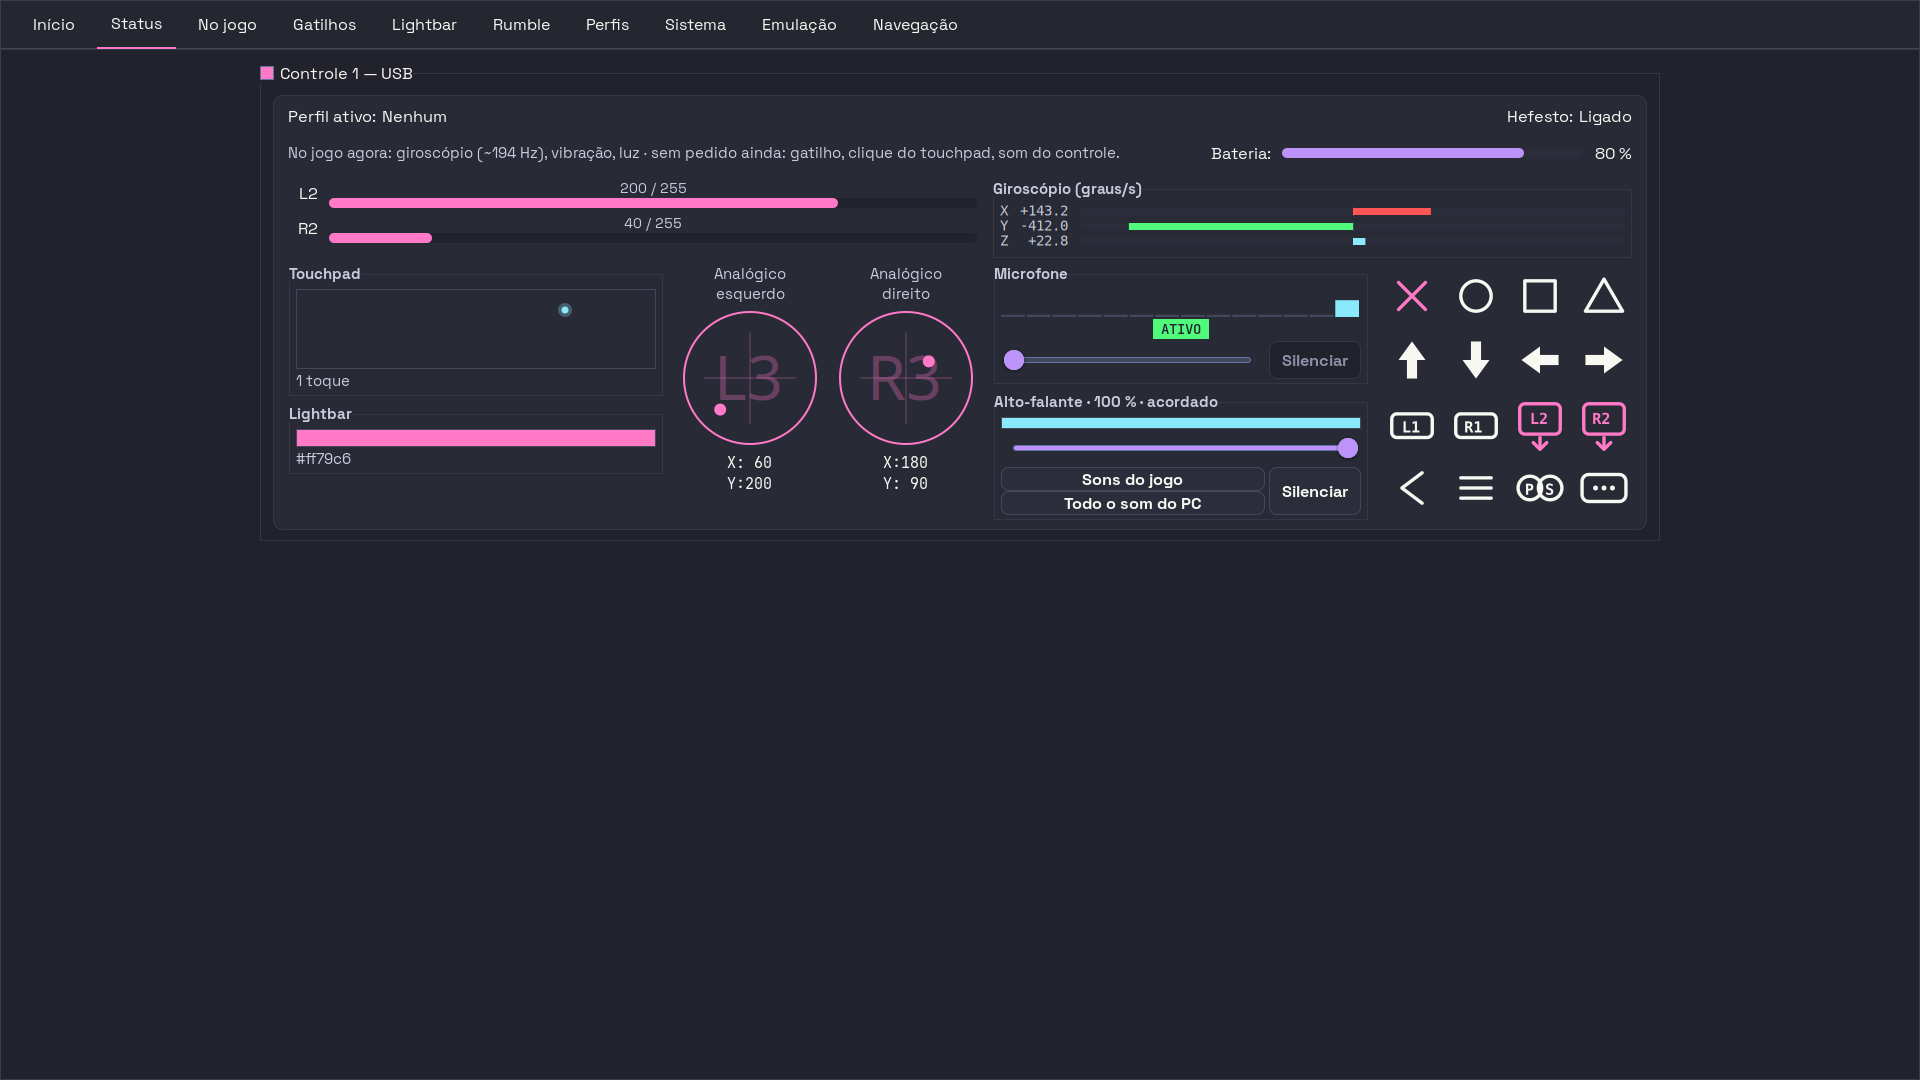
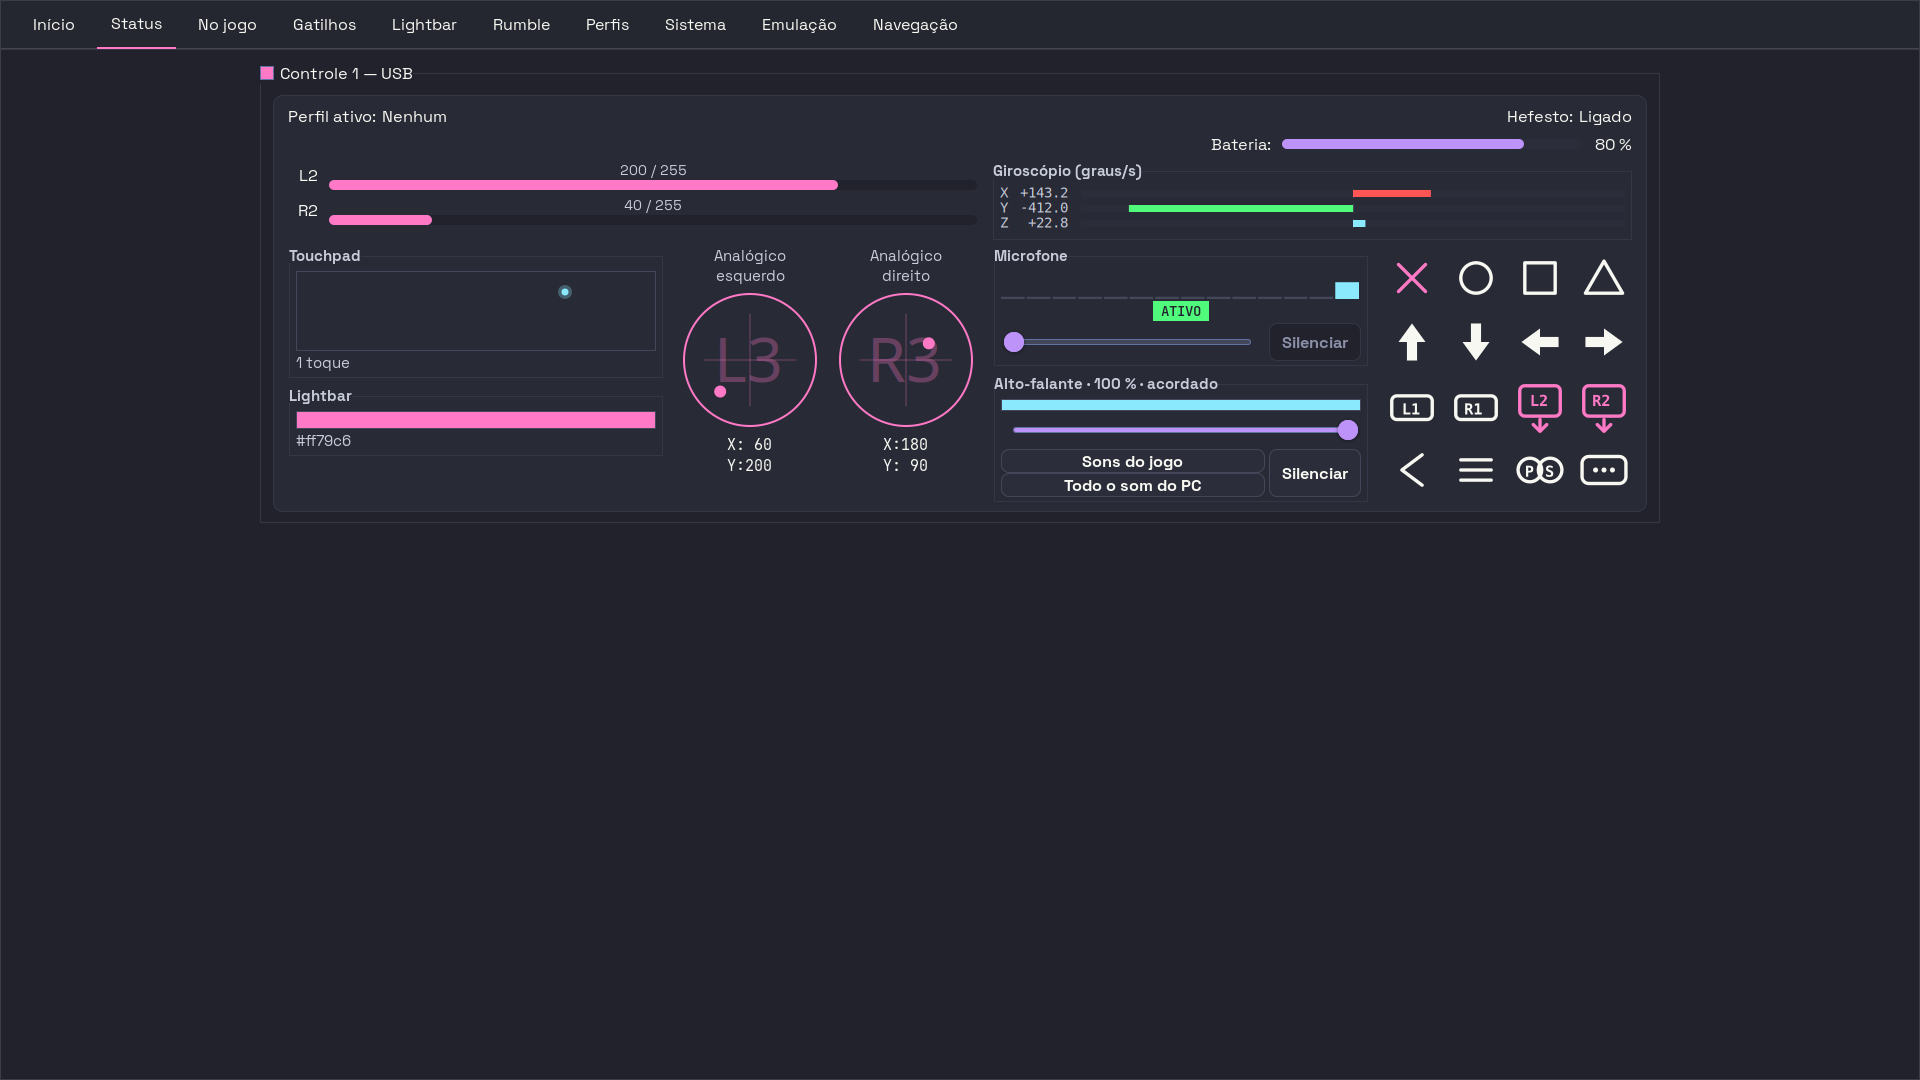
feat(status): a barra de status em tempo real sai do card
Pedido dela olhando a aba: 'remover guia dos status em tempo real'.

A linha era 'No jogo agora: giroscópio (~199 Hz) · pararam: vibração, gatilho,
luz, som do controle · sem pedido ainda: clique do touchpad' — uma faixa inteira
do card que mudava de texto a cada tique. E ela repetia em prosa o que os
medidores do card já dizem em desenho: cada um desses canais tem bloco próprio
logo abaixo.

O rótulo NÃO foi arrancado: ele continua existindo e continua sendo alimentado
por _update_verdade, só não é empacotado. Assim nenhum 'if' novo entra no
caminho quente, o RotuloDeAlturaReservada e o _VERDADE_MAX_CHARS seguem cobertos
pelos testes que os travam, e devolver a linha custa reinserir um pack_start.
Arrancar tudo custaria mais e apagaria o caminho de volta.

Changed region(s): [[0.1562, 0.1222, 0.8438, 0.4889], [0.5938, 0.1222, 0.8438, 0.2139], [0.2812, 0.2444, 0.3125, 0.275]]

diff --git a/scripts/ensaios/o_vpad_quando_o_jogo_abre.py b/scripts/ensaios/o_vpad_quando_o_jogo_abre.py
@@ -1,0 +1,370 @@
+#!/usr/bin/env python3
+"""o_vpad_quando_o_jogo_abre.py — o vpad MORRE, ou CONGELA? Segundo a segundo.
+
+A PERGUNTA QUE ELE RESPONDE
+----------------------------
+*Quando o jogo abre, o que acontece com o controle virtual?* — e a resposta tem
+de separar **duas coisas que os relatos de 16/08 misturaram**, porque elas têm
+curas diferentes:
+
+- **MORRE**  — o nó do vpad some (`gamepad_emulation_stopped`, `/dev/hidrawN`
+  desaparece). O jogo, que já enumerou aquele nó, fica com um descritor órfão.
+- **CONGELA** — o nó continua vivo e emitindo na cadência normal, e o CONTEÚDO
+  para: os eixos ficam no valor de repouso. Foi o que o par de 17/08 00h20
+  mediu (1573 reports, `LX` travado em 129) e o que o item 1 do
+  O-QUE-FICOU-ABERTO-01 já tinha registrado no rádio (396 reports, `LX` em 128).
+
+Contagem de reports **não** distingue as duas: um vpad que morreu e renasceu
+emite tanto quanto um que nunca parou. Só a linha do tempo distingue — e é ela
+que este instrumento imprime.
+
+O QUE ELE MEDE
+---------------
+Uma linha por segundo, com quatro colunas que só fazem sentido juntas:
+
+    t    vpad          reports  pares  perfil        o que o daemon fez
+    12s  /dev/hidraw4      63     41   Dont Scream   -
+    13s  /dev/hidraw4      61     38   Dont Scream   -
+    14s  (nenhum)           0      0   Navegação     emulação PAROU
+    15s  /dev/hidraw4      58      1   Dont Scream   vpad NASCEU
+
+`pares` é a contagem de pares `(LX, LY)` **distintos** naquele segundo. É a
+régua do movimento, e não a do tráfego: um vpad congelado dá `reports` alto e
+`pares` = 1. Um vpad morto dá zero nos dois.
+
+O QUE ELE NÃO MEDE
+-------------------
+**Não mede se o JOGO usa o que chega** — este é o andar do transporte, e o
+prontuário por jogo é quem recusa dizer "funciona". Não mede latência.
+
+A ARMADILHA QUE ELE EVITA
+--------------------------
+**Guardar o caminho do nó.** O vpad renasce com outro número, e um instrumento
+que fixa `/dev/hidraw4` na primeira resolução mede "morreu" para sempre depois
+do primeiro ciclo — exatamente o erro que o `descobrir_aparelhos()` do
+`comum.py` existe para impedir. Aqui o nó é **redescoberto a cada segundo**, e
+a coluna `vpad` imprime o nó de verdade daquele segundo.
+
+E a de 16/08, que custou um diagnóstico errado: **um ensaio mede UM gesto**.
+O gesto aqui é *um só* — mexer o analógico esquerdo, sem parar, do começo ao
+fim. Quem parar de mexer para abrir o jogo produz `pares=1` por conta própria e
+lê congelamento onde só houve mão parada. Por isso o instrumento **pede o gesto
+antes de começar** e imprime, no resumo, quantos segundos tiveram movimento.
+
+USO
+    .venv/bin/python scripts/ensaios/o_vpad_quando_o_jogo_abre.py
+    .venv/bin/python scripts/ensaios/o_vpad_quando_o_jogo_abre.py --segundos 120
+"""
+
+from __future__ import annotations
+
+import argparse
+import os
+import re
+import select
+import subprocess
+import sys
+import threading
+import time
+from collections import defaultdict
+
+sys.path.insert(0, os.path.dirname(os.path.abspath(__file__)))
+
+from comum import (  # noqa: E402
+    abrir_no_hidraw,
+    cabecalho_do_instrumento,
+    descobrir_aparelhos,
+    diagnostico_de_acesso,
+    resumo,
+    tabela,
+    vpads,
+)
+
+#: Buffer folgado: um `read()` de hidraw devolve UM relatório, e o maior desta
+#: família é o `0x31` do Bluetooth, com 78 bytes.
+BUF = 128
+
+#: Onde o primeiro eixo (`LX`) começa, por report ID. O vpad forja `BUS_USB` no
+#: `UHID_CREATE2` (vira `0x01`), mas a máscara pode mudar — então os dois.
+_BASE = {0x01: 1, 0x31: 2}
+
+#: Os eventos do journal que mudam o veredito, e o rótulo curto de cada um.
+#: Tudo o que não estiver aqui é ruído para ESTA pergunta e não entra na linha.
+_EVENTOS = (
+    ("uhid_device_created", "vpad NASCEU"),
+    ("gamepad_emulation_stopped", "emulação PAROU"),
+    ("gamepad_emulation_started", "emulação SUBIU"),
+    ("gamepad_controller_grab", "grab"),
+    ("backend_hotplug_reconcile", "reconcile"),
+    ("motion_reader_started", "leitor de movimento SUBIU"),
+    ("motion_reader_stopped", "leitor de movimento PAROU"),
+    ("motion_reader_open_failed", "leitor de movimento FALHOU"),
+    ("controller_disconnected", "controle DESCONECTOU"),
+    ("state_stale_neutral_warning", "estado ESTAGNADO"),
+)
+
+_RE_PERFIL = re.compile(r"profile_activated\s+name=('([^']*)'|(\S+))")
+
+
+def _perfil_agora() -> str:
+    """O perfil ativo AGORA, para a primeira linha não sair em branco.
+
+    Uma chamada ao IPC, no começo e só no começo: dali em diante quem manda é o
+    `profile_activated` do log, que é a fonte de verdade sobre a TROCA. Ler o
+    IPC a cada segundo seria o instrumento perguntando ao produto o que ele já
+    está gritando no log — e mais uma coisa disputando o socket durante a
+    medição.
+    """
+    try:
+        saida = subprocess.run(
+            [sys.executable, "-m", "hefesto_dualsense4unix", "status"],
+            capture_output=True, text=True, timeout=8,
+        ).stdout
+    except (OSError, subprocess.SubprocessError):
+        return "(não sei)"
+    for linha in saida.splitlines():
+        if "active_profile" in linha:
+            partes = [p.strip() for p in linha.strip("│ ").split("│")]
+            if len(partes) >= 2:
+                return partes[1]
+    return "(não sei)"
+
+
+class Janela:
+    """O que aconteceu em cada segundo. Um lock, porque três threads escrevem."""
+
+    def __init__(self) -> None:
+        self.lock = threading.Lock()
+        self.reports: dict[int, int] = defaultdict(int)
+        self.pares: dict[int, set[tuple[int, int]]] = defaultdict(set)
+        self.no: dict[int, str] = {}
+        self.eventos: dict[int, list[str]] = defaultdict(list)
+        self.perfil = _perfil_agora()
+        self.perfil_por_seg: dict[int, str] = {}
+
+    def report(self, seg: int, no: str, lx: int, ly: int) -> None:
+        with self.lock:
+            self.reports[seg] += 1
+            self.pares[seg].add((lx, ly))
+            self.no[seg] = no
+
+    def evento(self, seg: int, rotulo: str) -> None:
+        with self.lock:
+            if rotulo not in self.eventos[seg]:
+                self.eventos[seg].append(rotulo)
+
+    def trocou_perfil(self, nome: str) -> None:
+        with self.lock:
+            self.perfil = nome
+
+    def fecha(self, seg: int) -> tuple[str, int, int, str, str]:
+        with self.lock:
+            self.perfil_por_seg[seg] = self.perfil
+            return (
+                self.no.get(seg, "(nenhum)"),
+                self.reports.get(seg, 0),
+                len(self.pares.get(seg, ())),
+                self.perfil,
+                ", ".join(self.eventos.get(seg, ())) or "-",
+            )
+
+
+def _le_o_vpad(janela: Janela, t0: float, ate: float, parar: threading.Event) -> None:
+    """Lê o vpad e redescobre o nó a cada segundo. Nunca guarda o caminho."""
+    aberto: tuple[str, object] | None = None
+    proxima_busca = 0.0
+    while not parar.is_set() and time.monotonic() < ate:
+        agora = time.monotonic()
+        if aberto is None and agora >= proxima_busca:
+            proxima_busca = agora + 1.0
+            achados = vpads(descobrir_aparelhos())
+            if achados:
+                caminho = achados[0].caminho_hidraw
+                try:
+                    aberto = (caminho, abrir_no_hidraw(caminho, escrita=False))
+                except OSError:
+                    aberto = None
+        if aberto is None:
+            time.sleep(0.05)
+            continue
+        caminho, no = aberto
+        try:
+            pronto, _, _ = select.select([no.fd], [], [], 0.2)
+            if not pronto:
+                # Nó sumiu debaixo de nós? `stat` é barato e é a única checagem
+                # que separa "nada a ler" de "o vpad morreu".
+                if not os.path.exists(caminho):
+                    raise OSError(2, "o nó sumiu")
+                continue
+            dados = os.read(no.fd, BUF)
+        except OSError:
+            try:
+                no.close()
+            except Exception:  # noqa: BLE001 — fechar não pode derrubar a medição
+                pass
+            aberto = None
+            continue
+        base = _BASE.get(dados[0] if dados else -1)
+        if base is None or len(dados) < base + 2:
+            continue
+        janela.report(int(time.monotonic() - t0), caminho, dados[base], dados[base + 1])
+
+
+def _segue_o_journal(janela: Janela, t0: float, parar: threading.Event) -> None:
+    """Segue o log do daemon ao vivo. Só LÊ — não pede nada ao daemon."""
+    proc = subprocess.Popen(
+        [
+            "journalctl", "--user", "-u", "hefesto-dualsense4unix",
+            "-f", "-n", "0", "-o", "cat",
+        ],
+        stdout=subprocess.PIPE,
+        stderr=subprocess.DEVNULL,
+        text=True,
+    )
+    try:
+        assert proc.stdout is not None
+        for linha in proc.stdout:
+            if parar.is_set():
+                break
+            seg = int(time.monotonic() - t0)
+            casou = _RE_PERFIL.search(linha)
+            if casou:
+                janela.trocou_perfil(casou.group(2) or casou.group(3))
+                janela.evento(seg, f"perfil → {casou.group(2) or casou.group(3)}")
+            for chave, rotulo in _EVENTOS:
+                if chave in linha:
+                    if chave == "gamepad_controller_grab":
+                        rotulo = "grab " + ("PEGOU" if "grab=True" in linha else "SOLTOU")
+                    janela.evento(seg, rotulo)
+    finally:
+        proc.terminate()
+
+
+def main() -> int:
+    ap = argparse.ArgumentParser(description=__doc__)
+    ap.add_argument("--segundos", type=int, default=90, help="duração (padrão: 90)")
+    args = ap.parse_args()
+
+    print(
+        cabecalho_do_instrumento(
+            "o_vpad_quando_o_jogo_abre.py",
+            "quando o jogo abre, o vpad MORRE ou CONGELA?",
+            bibliotecas=[],
+            escreve_no_aparelho=False,
+            daemon_precisa_parar=False,
+        )
+    )
+
+    achados = vpads(descobrir_aparelhos())
+    if achados:
+        print(f"\n  vpad agora: {achados[0].caminho_hidraw}")
+        print(f"  acesso ...: {diagnostico_de_acesso(achados[0].caminho_hidraw)}")
+    else:
+        print("\n  vpad agora: NENHUM — a emulação está desligada neste instante.")
+        print("  (não é impedimento: o instrumento espera ele nascer e registra a hora)")
+
+    print(
+        "\n  O GESTO, e é UM SÓ: mexa o analógico ESQUERDO em círculos, sem parar,\n"
+        "  do primeiro segundo ao último. Não pare para abrir o jogo — abra com a\n"
+        "  outra mão. Mão parada produz `pares=1` sozinha, e isso se lê como\n"
+        "  congelamento que não houve.\n"
+    )
+    print(f"  Medindo por {args.segundos}s. Comece a mexer AGORA.\n")
+
+    janela = Janela()
+    t0 = time.monotonic()
+    parar = threading.Event()
+    ate = t0 + args.segundos
+    threads = [
+        threading.Thread(target=_le_o_vpad, args=(janela, t0, ate, parar), daemon=True),
+        threading.Thread(target=_segue_o_journal, args=(janela, t0, parar), daemon=True),
+    ]
+    for t in threads:
+        t.start()
+
+    linhas: list[list[str]] = []
+    print(f"  {'t':>4}  {'vpad':<14} {'reports':>7} {'pares':>6}  {'perfil':<14} o que o daemon fez")
+    print("  " + "-" * 92)
+    try:
+        for seg in range(args.segundos):
+            time.sleep(max(0.0, (t0 + seg + 1) - time.monotonic()))
+            no, reports, pares, perfil, eventos = janela.fecha(seg)
+            curto = no.replace("/dev/", "")
+            print(f"  {seg:>3}s  {curto:<14} {reports:>7} {pares:>6}  {perfil:<14} {eventos}")
+            linhas.append([f"{seg}s", curto, str(reports), str(pares), perfil, eventos])
+    except KeyboardInterrupt:
+        print("\n  (interrompido)")
+    parar.set()
+
+    # ---- o veredito, e ele recusa sair de contagem sozinha -------------------
+    com_movimento = sum(1 for ln in linhas if int(ln[3]) > 2)
+    com_report = sum(1 for ln in linhas if int(ln[2]) > 0)
+    sem_vpad = sum(1 for ln in linhas if ln[1] == "(nenhum)")
+    congelados = sum(1 for ln in linhas if int(ln[2]) > 10 and int(ln[3]) <= 1)
+    mortes = sum(1 for ln in linhas if "emulação PAROU" in ln[5])
+    nascimentos = sum(1 for ln in linhas if "vpad NASCEU" in ln[5])
+    reconciles = sum(1 for ln in linhas if "reconcile" in ln[5])
+
+    print(
+        "\n"
+        + tabela(
+            ["o que se contou", "segundos"],
+            [
+                ["com movimento real (pares > 2)", str(com_movimento)],
+                ["com report chegando", str(com_report)],
+                ["SEM vpad nenhum", str(sem_vpad)],
+                ["CONGELADO (reports > 10 e pares ≤ 1)", str(congelados)],
+                ["--- eventos ---", ""],
+                ["a emulação PAROU", str(mortes)],
+                ["o vpad NASCEU", str(nascimentos)],
+                ["backend_hotplug_reconcile", str(reconciles)],
+            ],
+        )
+    )
+
+    if com_movimento == 0:
+        print(
+            resumo(
+                "NÃO CONCLUSIVO: nenhum segundo teve movimento real. Ou a mão "
+                "ficou parada, ou nunca houve entrada — e este instrumento não "
+                "separa as duas. Refaça com o gesto contínuo do começo ao fim."
+            )
+        )
+        return 2
+    if sem_vpad and congelados:
+        print(
+            resumo(
+                f"OS DOIS: o vpad MORREU em {sem_vpad}s e CONGELOU em "
+                f"{congelados}s. A linha do tempo acima diz qual veio primeiro — "
+                "e é ela que decide a ordem da cura."
+            )
+        )
+    elif sem_vpad:
+        print(
+            resumo(
+                f"MORRE: {sem_vpad}s sem vpad nenhum, com {mortes} parada(s) da "
+                f"emulação e {nascimentos} nascimento(s). O jogo que enumerou o "
+                "nó anterior ficou com um descritor órfão. A cura é impedir a "
+                "destruição, não reabrir o leitor."
+            )
+        )
+    elif congelados:
+        print(
+            resumo(
+                f"CONGELA: {congelados}s com report chegando e eixo parado, sem "
+                "o vpad morrer. É o item 1 do O-QUE-FICOU-ABERTO-01, agora com "
+                "gatilho na linha do tempo acima."
+            )
+        )
+    else:
+        print(
+            resumo(
+                f"NEM UM NEM OUTRO: {com_movimento}s de movimento real e nenhum "
+                "segundo congelado ou sem vpad. Neste ensaio o vpad se comportou."
+            )
+        )
+    return 0
+
+
+if __name__ == "__main__":
+    raise SystemExit(main())

diff --git a/src/hefesto_dualsense4unix/app/widgets/controller_card.py b/src/hefesto_dualsense4unix/app/widgets/controller_card.py
@@ -2454,7 +2454,23 @@ if _GTK_DISPONIVEL:
                 )
                 slot_motion = Gtk.Box(orientation=Gtk.Orientation.VERTICAL)
                 slot_motion.set_valign(Gtk.Align.CENTER)
-                slot_motion.pack_start(self._verdade_label, False, False, 0)
+                # SEM-BARRA-DA-VERDADE-01 (17/08/2026), pedido dela olhando a
+                # aba: *"remover guia dos status em tempo real"*.
+                #
+                # A linha ("No jogo agora: giroscópio (~199 Hz) · pararam:
+                # vibração, gatilho, luz, som do controle · sem pedido ainda:
+                # clique do touchpad") ocupava uma faixa inteira do card e
+                # mudava de texto a cada tique. O card já mostra CADA um desses
+                # canais no bloco próprio — a linha repetia em prosa o que os
+                # medidores dizem em desenho.
+                #
+                # **O rótulo continua existindo e continua sendo alimentado.**
+                # Só não é EMPACOTADO. Assim `_update_verdade` segue rodando
+                # sem `if` novo, o `RotuloDeAlturaReservada` e o
+                # `_VERDADE_MAX_CHARS` continuam cobertos pelos testes que os
+                # travam, e devolver a linha é uma linha de código — este
+                # `pack_start` de volta. Arrancar tudo custaria mais e
+                # apagaria o caminho de volta.
                 faixa.pack_start(slot_motion, True, True, 0)
                 faixa.pack_start(linha_bateria, False, False, 0)
                 corpo.pack_start(faixa, False, False, 0)
